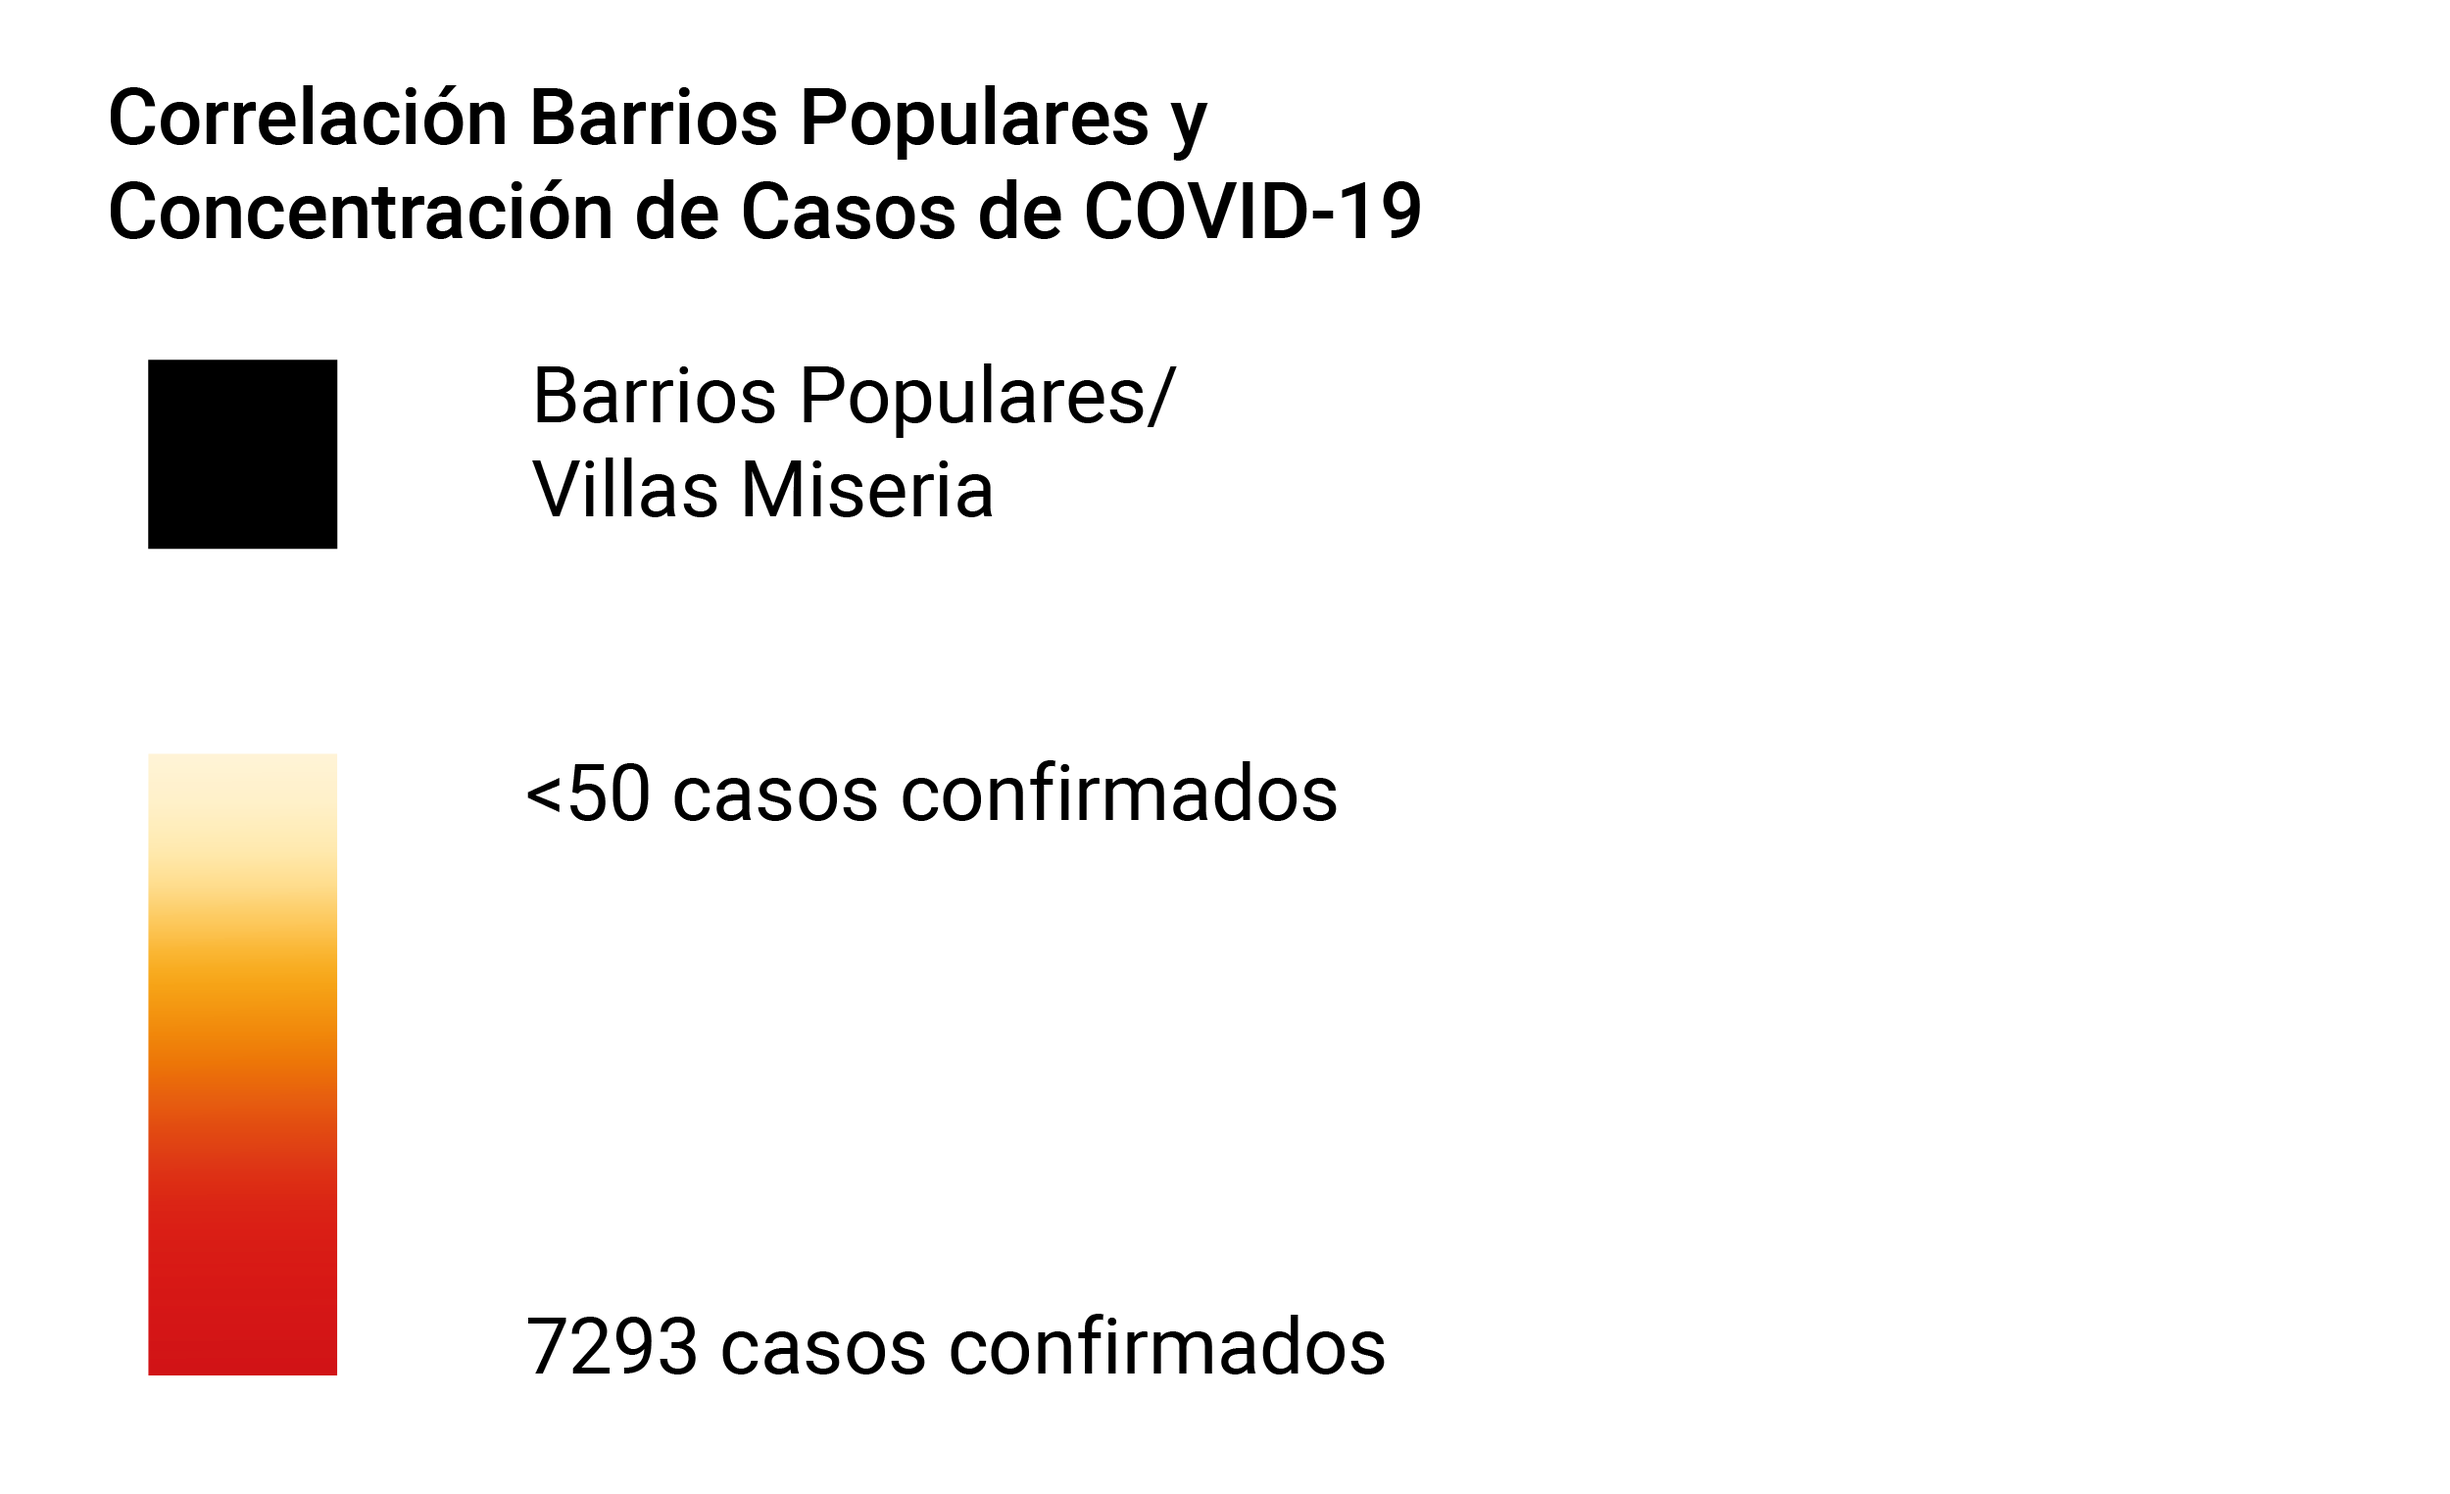
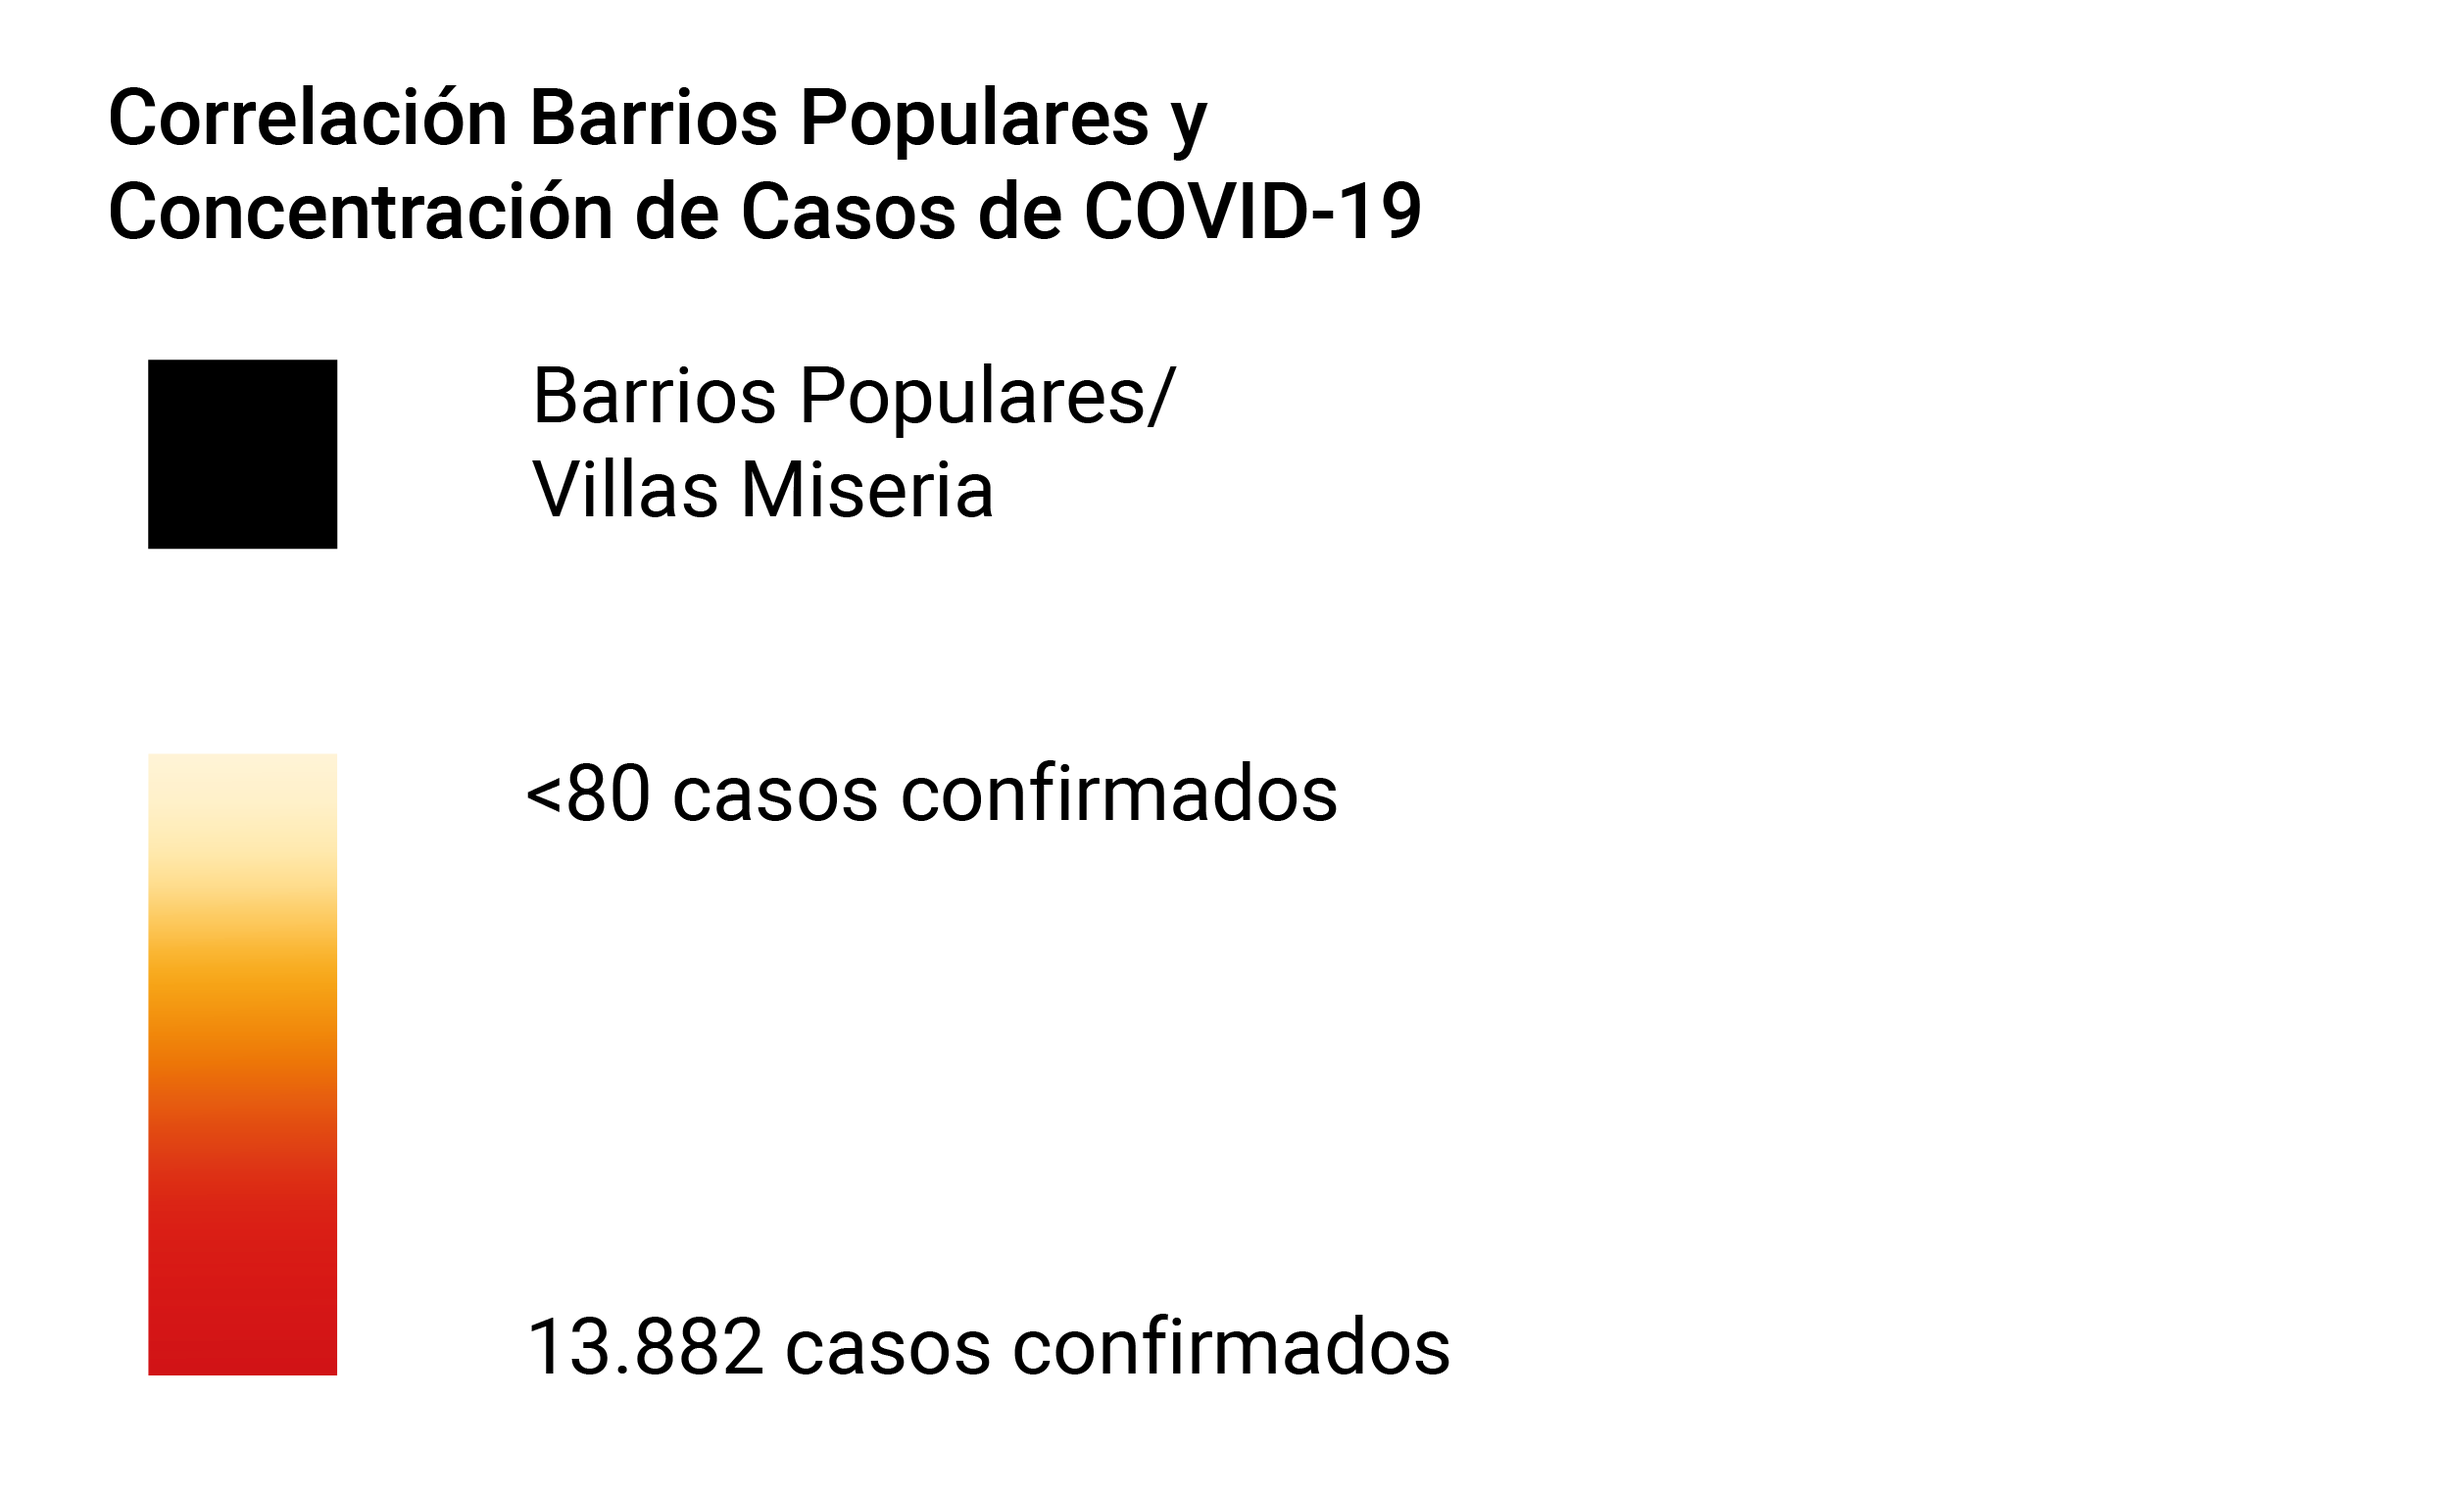
Images update

Changed region(s): [[0.2184, 0.863, 0.5928, 0.9246], [0.2184, 0.5239, 0.2496, 0.5548]]

diff --git a/map.js b/map.js
@@ -258,12 +258,12 @@ map.on("load", function () {
             'fill-color': ['step', ['get','arg-casos-covid-19_casos-covid-19-10072020'],
                 '#ffffff',
                 0,'#FFE8AD',
-                89, '#FFCB45',
-                263, '#FFC632',
-                485, '#FAA307',
-                854, '#F48C06',
-                2446, '#E85D04',
-                95182, '#D62828',],
+                20, '#FFCB45',
+                152, '#FFC632',
+                373, '#FAA307',
+                1074, '#F48C06',
+                3358, '#E85D04',
+                98228, '#D62828',],
             'fill-opacity': 0
         }
     }, firstSymbolId);
@@ -369,17 +369,17 @@ map.on("load", function () {
                 '#f7f7f7',
                 54, '#FFF3D6', 
                 66, '#FFF3D6', 
-                75, '#FFF3D6', 
+                83, '#FFF3D6', 
                 100,'#FFF3D6', 
                 157,'#FFF3D6', 
                 184,'#FFF3D6', 
                 345, '#FFF3D6', 
                 410, '#FFF3D6', 
-                549,'#FFE8AD',
-                1339, '#FAA307',
-                2228, '#DC2F02',
-                4454, '#D61801',
-                7293, '#D00000',],
+                943,'#FFE8AD',
+                2368, '#FAA307',
+                4156, '#DC2F02',
+                7438, '#D61801',
+                13882, '#D00000',],
             'fill-opacity': 0
         }
     }, 'villasMiseria');
